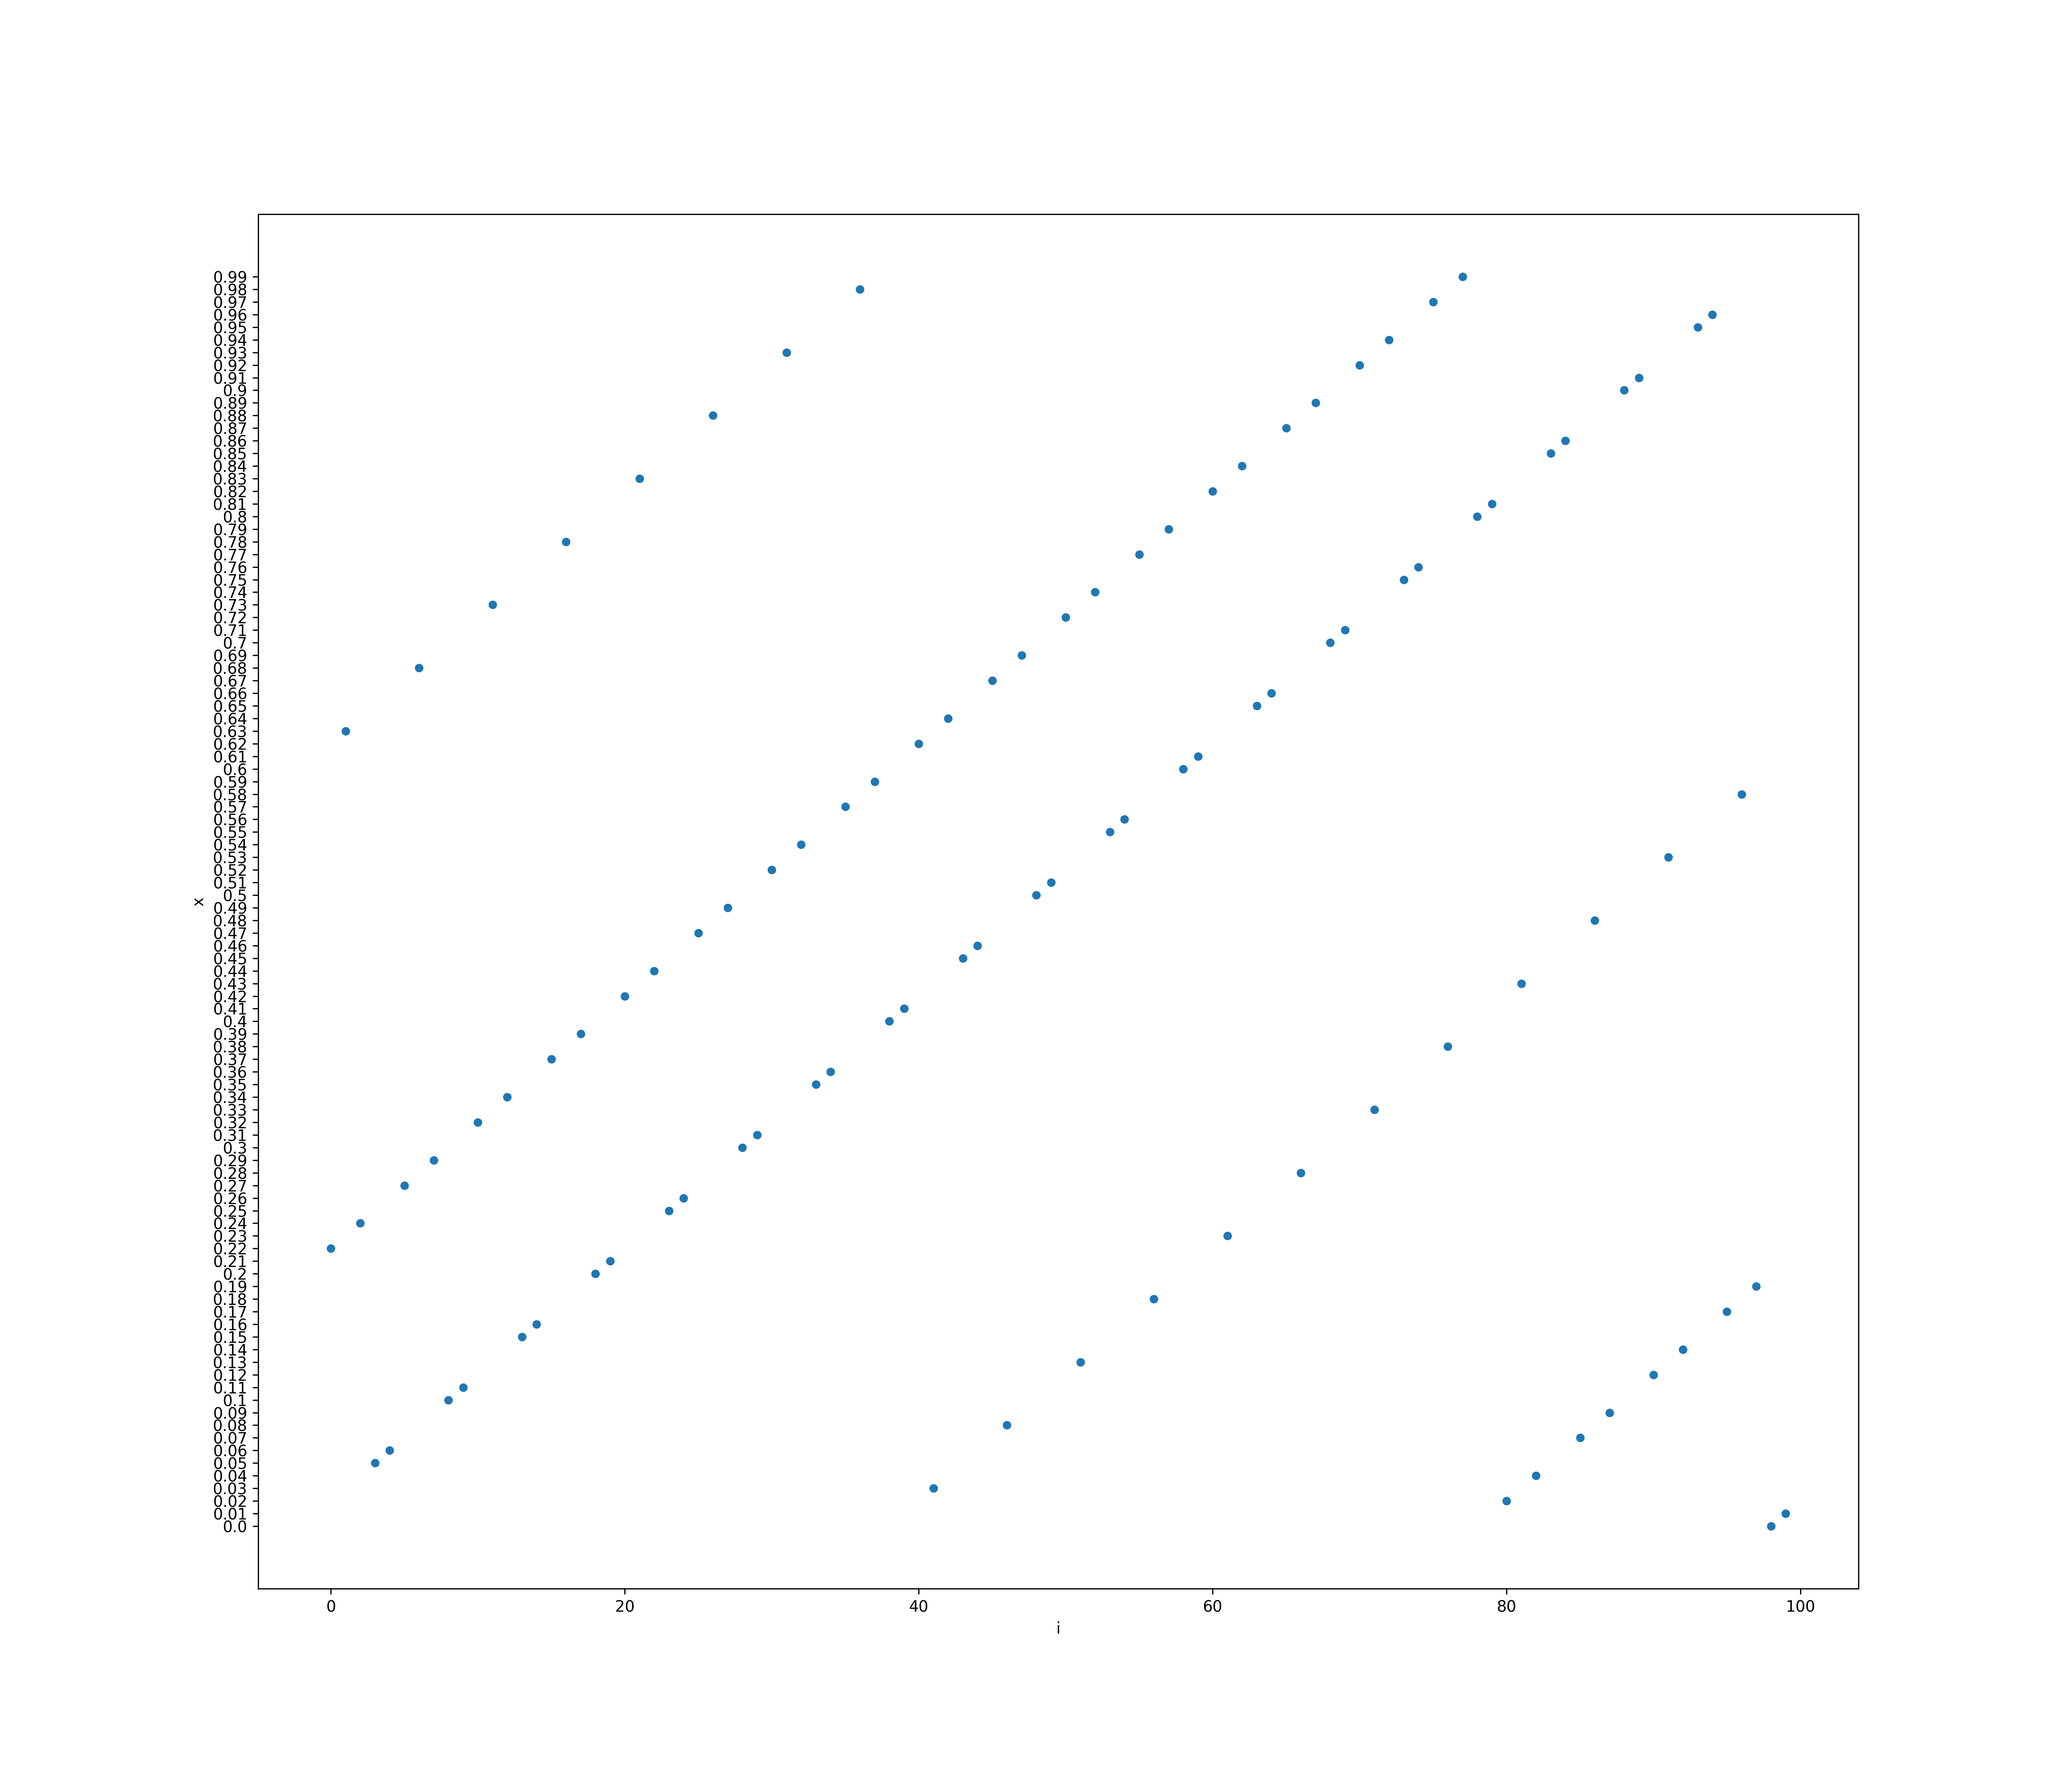
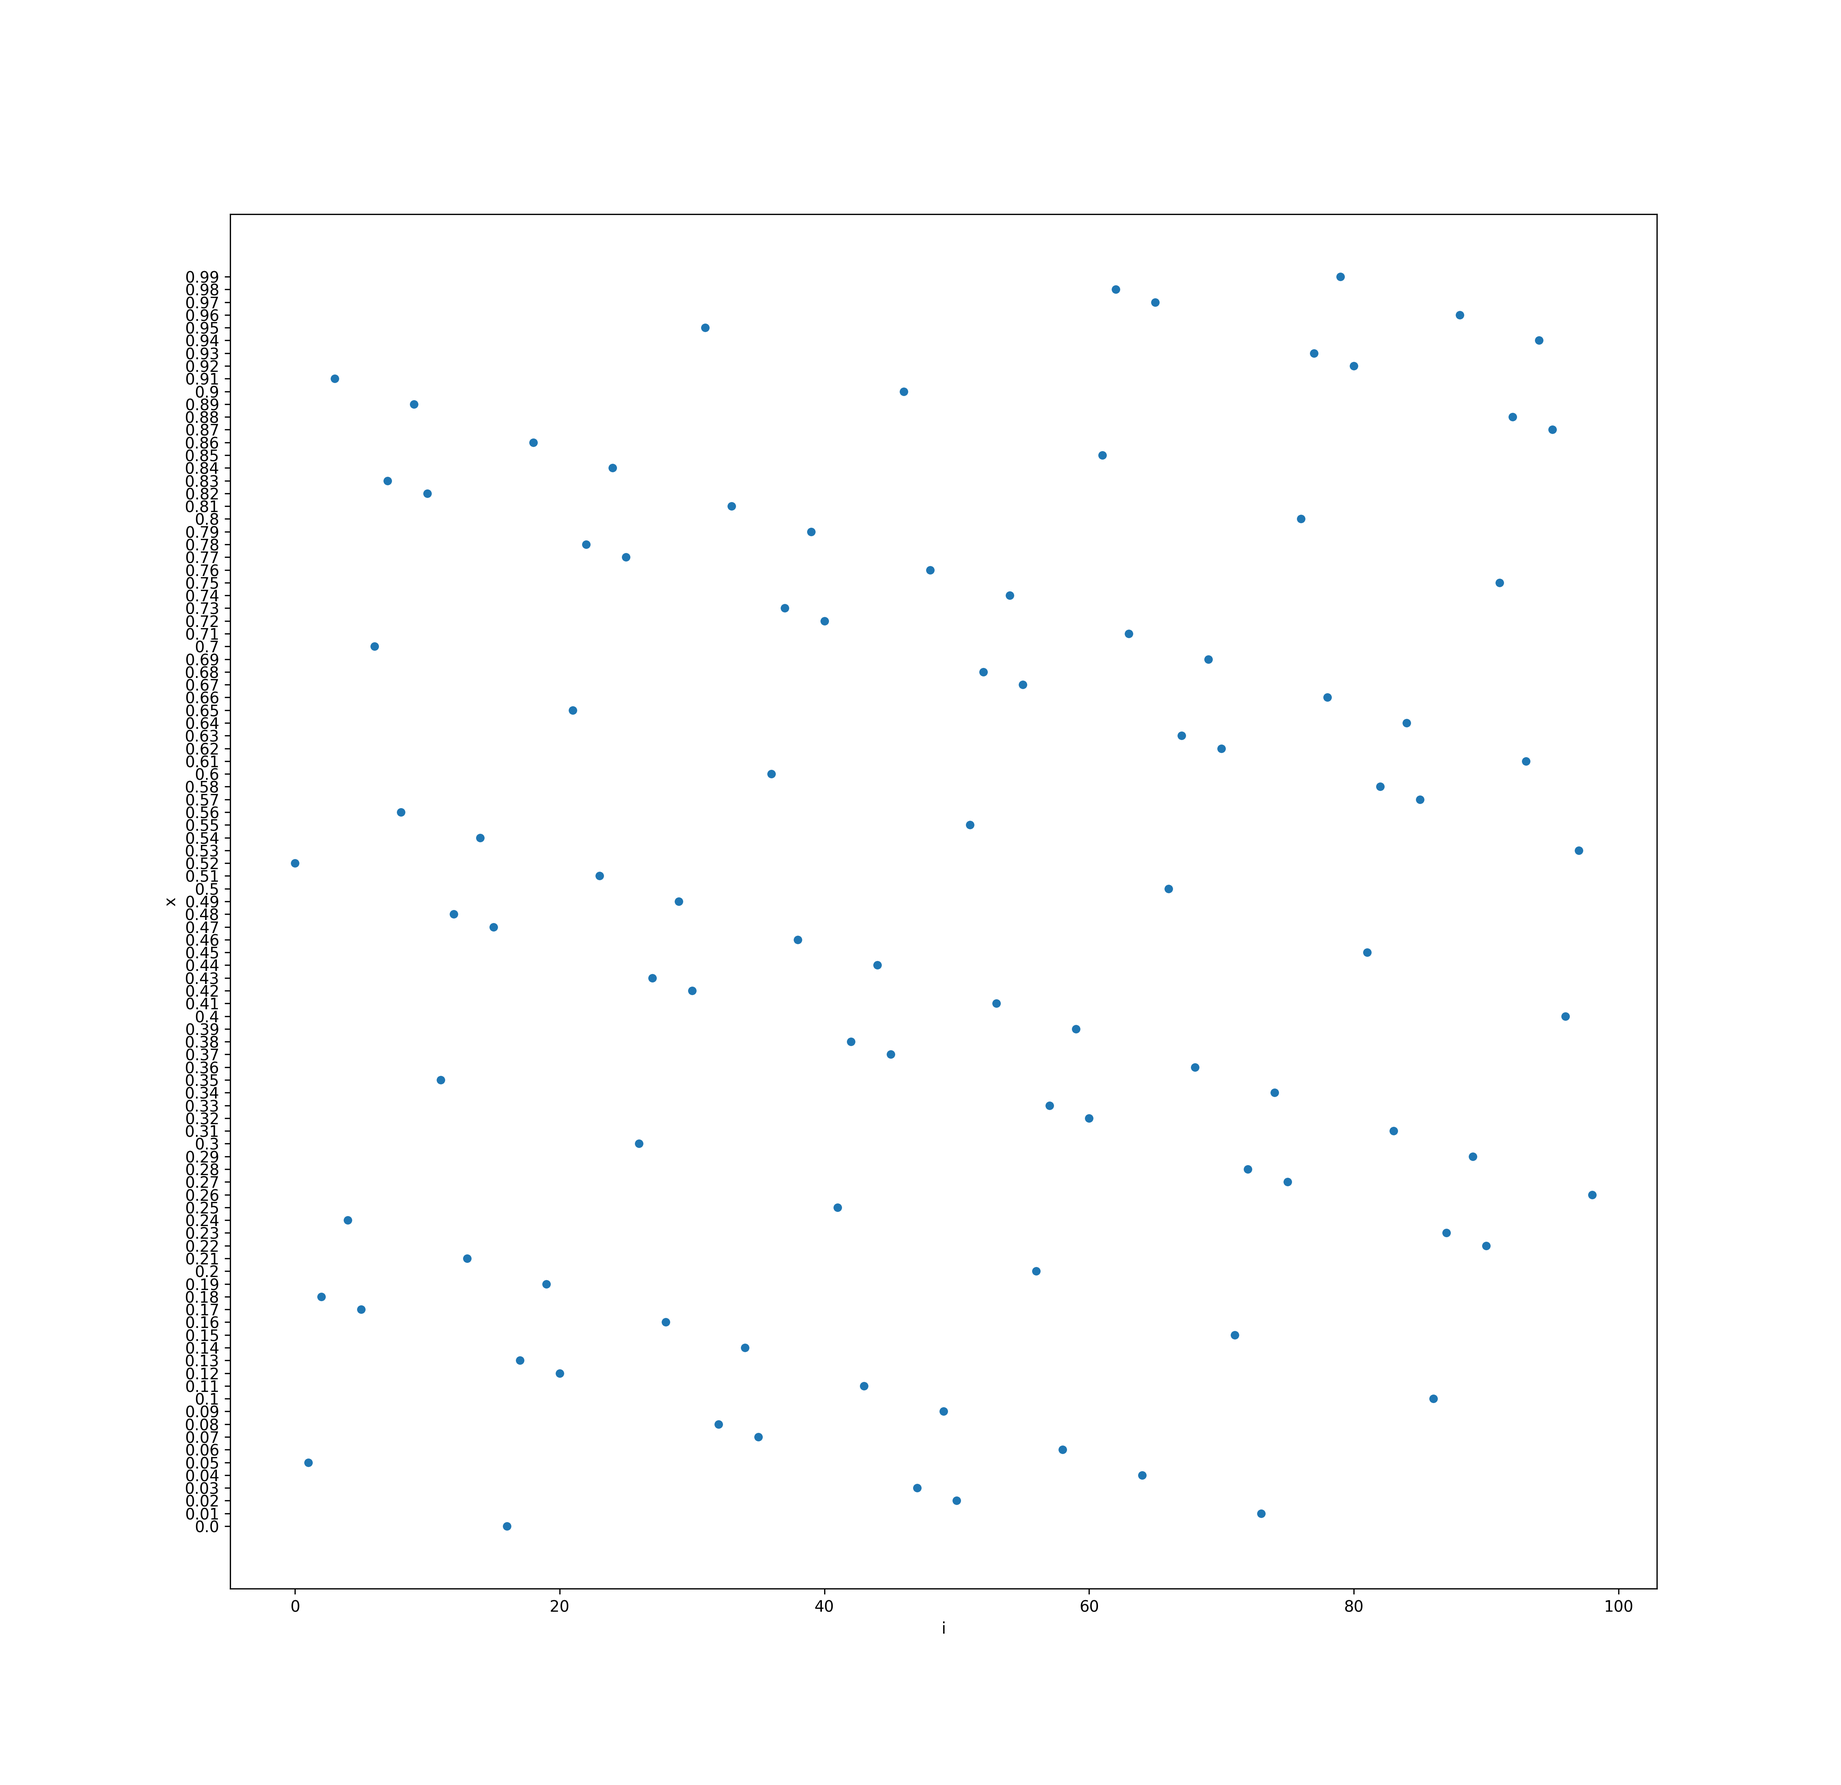
modificaciones  - ajustes de logica para evitar errores

Changed region(s): [[0.0933, 0.1562, 0.1244, 0.875]]

diff --git a/generadorlinealcongruencial/generador_lineal_congruencial.py b/generadorlinealcongruencial/generador_lineal_congruencial.py
@@ -1,8 +1,4 @@
-import cairo
-
 import pandas as pd
-
-
 import matplotlib.pyplot as plt
 
 
@@ -20,7 +16,7 @@ class LGC_generator:
         a = _a
         c = _c  # Our "c" base value
         m = _m  # Our "m" base value
-        d = []
+        d = []  #arreglo de valores calculados
 
         # counter for how many iterations we've run
         counter = 0
@@ -35,7 +31,7 @@ class LGC_generator:
         if _a<1 or _a>=_m :
           raise Exception('_a', 'el parametro debe ser menor al valor modulo de control')
 
-        if _c<1 or _c>=_m-1:
+        if _c<0 or _c>=_m-1:
           raise Exception('_c', 'el parametro debe ser menor al valor modulo de control menos 1 o superior a 0')
 
         # Perfom number of iterations requested by user
@@ -52,49 +48,49 @@ class LGC_generator:
                 'c': c,
                 'm': m,
             })
-            df=pd.DataFrame(d)
-
             # write to output file
             outFile.write((writeValue + "\n").encode())
             # print "num: " + " " + str(counter) +":: " + str(x_value)
-
             counter = counter + 1
 
         outFile.close()
+        df = pd.DataFrame(d)
         print("Successfully stored " + str(num_iterations) + " random numbers in file named: 'lgc_output.txt'.")
-        print(df)
-        # ax2 = df.plot.scatter(x='i',y = 'x',colormap = 'viridis')
-        df.sort_values('x')
-        print(df.sort_values('x'))
+        # print(df)
+        df = df.sort_values('x') # se ordena la columna
+        ax2 = df.plot.scatter(x='i',y = 'x',colormap = 'viridis')
+        fig = ax2.get_figure()
+        fig.set_size_inches(16.5, 16)  # ajustar tamaño de grafica
+        plt.savefig("test", dpi=300)
+        plt.close()
 
-        df.sort_values('x').plot(x='i', y='x', kind='scatter')
-        fig = plt.gcf()
-        fig.set_size_inches(16.5, 16)
-        plt.savefig("test",dpi=300)
+        fig, ax = plt.subplots()
+        ax.axis('tight')
+        ax.axis('off')
+        plt.tight_layout()
+        df = df.sort_values('i')  # se ordena la columna
+        fig.set_size_inches(5, 18)  # ajustar tamaño de grafica
+        ax.table(cellText=df.values, colLabels=df.columns, loc='center')
+        plt.savefig("table", dpi=300)
+        plt.close()
+
 
 
 
     if __name__ == "__main__":
-        repeticiones=100
-        seed = 1
-        a = 21
-        c = 1
-        M = 100
+
+        #LGC
+        repeticiones=99
+        seed = 59        # semilla dentro del rango entre 0  y la variable de control modulo ->M
+        a = 21              #multiplicados
+        c = 13               #incremento
+        M = 100             # variable de control
         generate_lcg(repeticiones,seed,a,c,M)
 
-        with cairo.SVGSurface("example.svg", 200, 200) as surface:
-            context = cairo.Context(surface)
-            x, y, x1, y1 = 0.1, 0.5, 0.4, 0.9
-            x2, y2, x3, y3 = 0.6, 0.1, 0.9, 0.5
-            context.scale(200, 200)
-            context.set_line_width(0.04)
-            context.move_to(x, y)
-            context.curve_to(x1, y1, x2, y2, x3, y3)
-            context.stroke()
-            context.set_source_rgba(1, 0.2, 0.2, 0.6)
-            context.set_line_width(0.02)
-            context.move_to(x, y)
-            context.line_to(x1, y1)
-            context.move_to(x2, y2)
-            context.line_to(x3, y3)
-            context.stroke()
+        # LGC multiplicativo
+        # repeticiones = 99
+        # seed = 12  # semilla dentro del rango entre 0  y la variable de control modulo ->M
+        # a = 21  # multiplicados
+        # c = 0  # incremento
+        # M = 100  # variable de control
+        # generate_lcg(repeticiones, seed, a, c, M)
